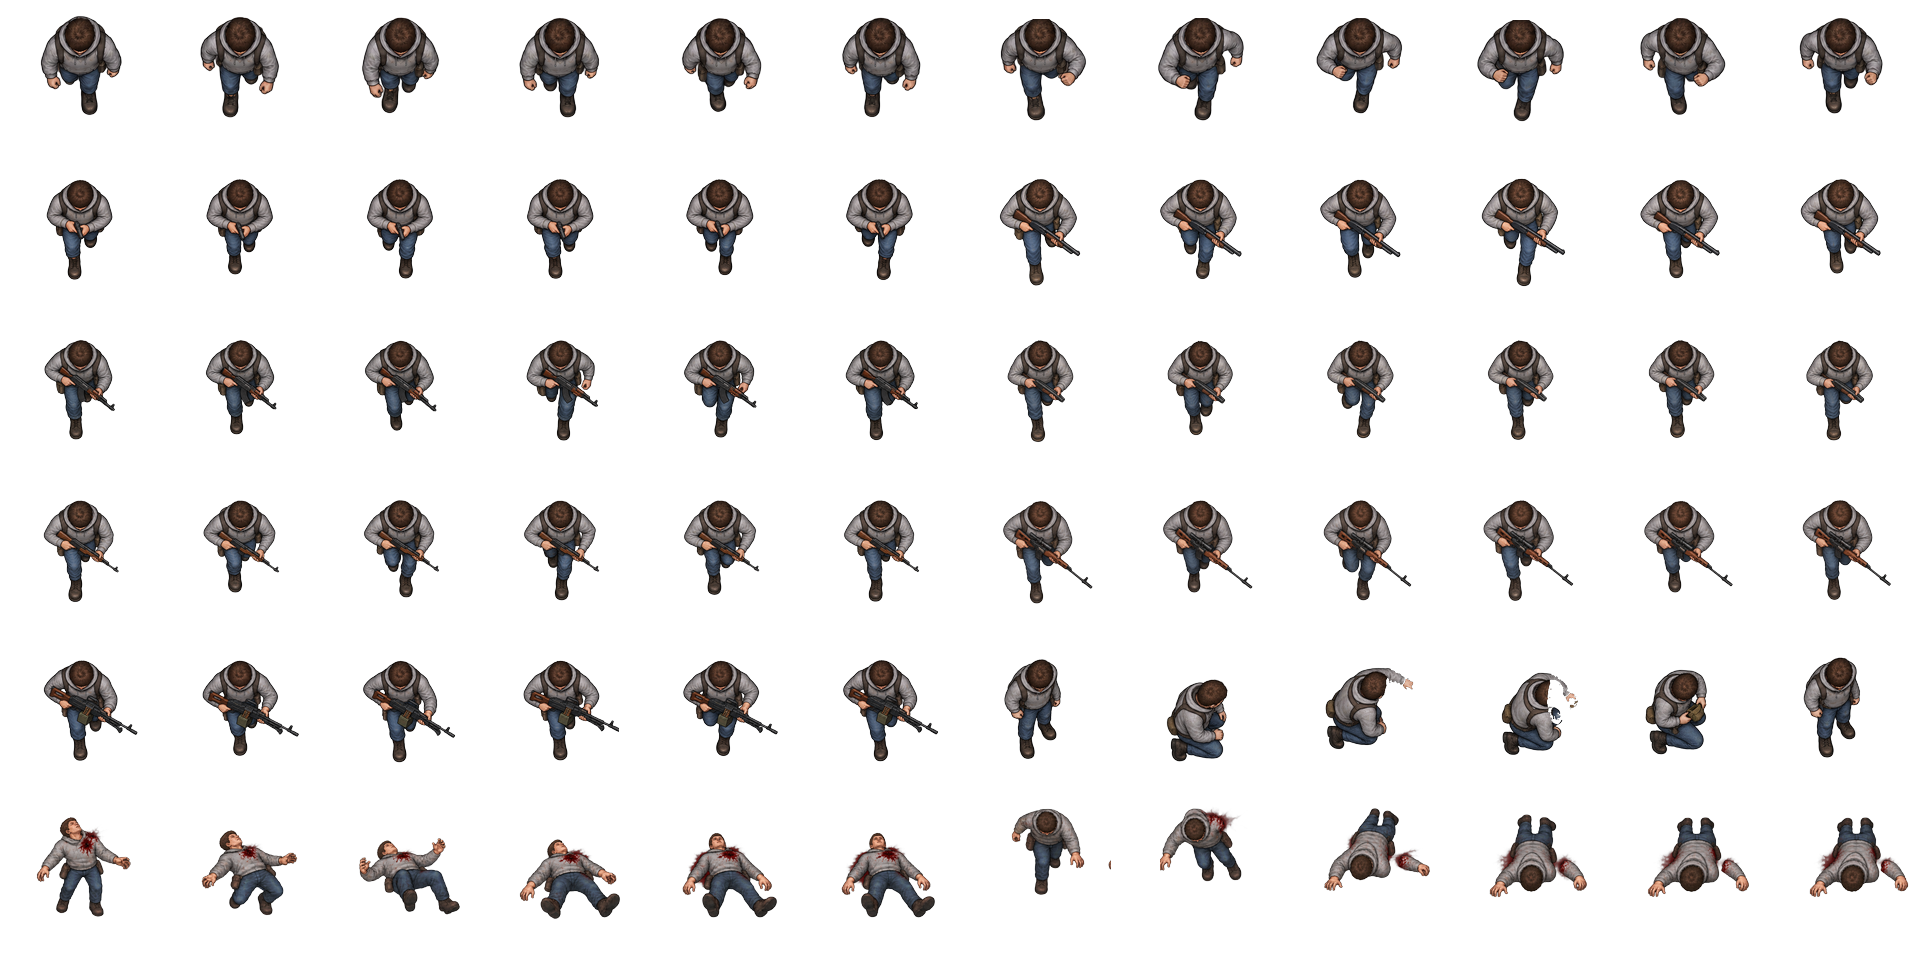
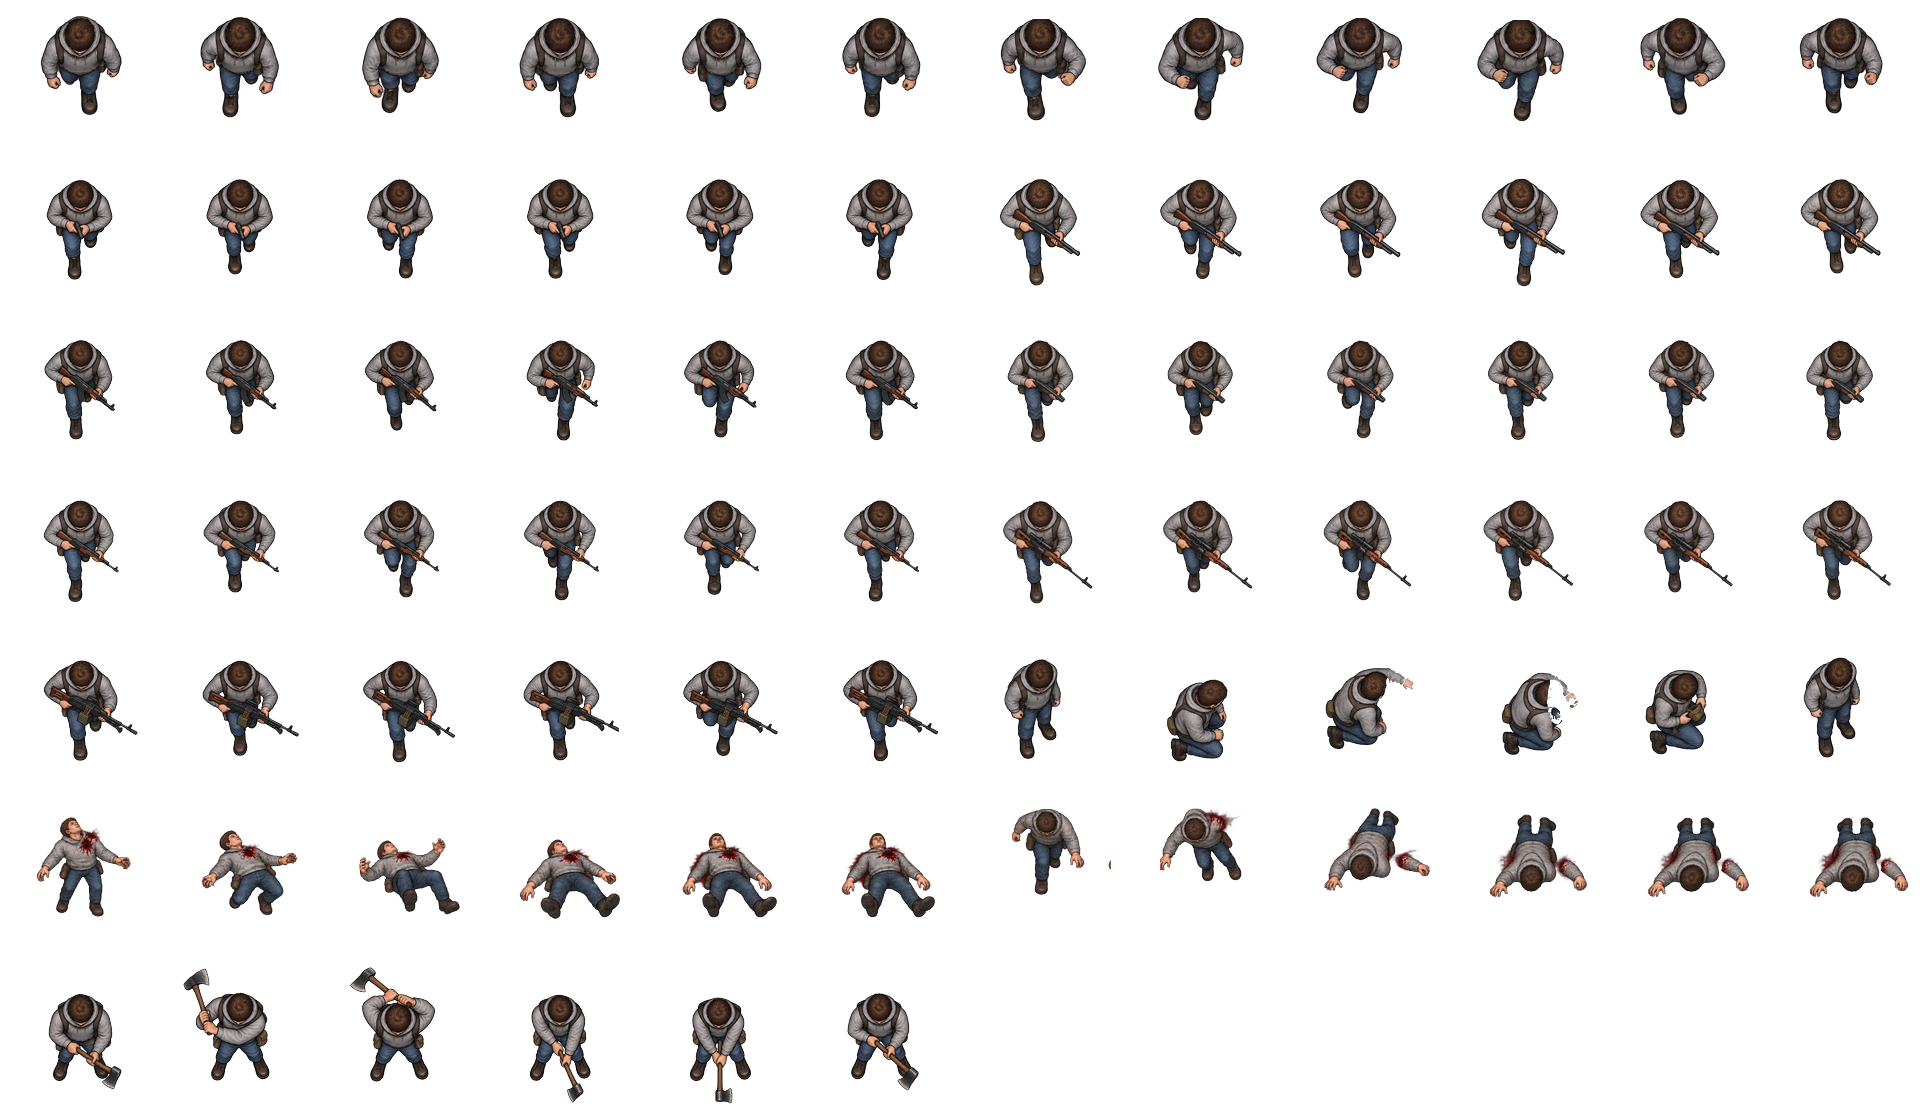
Hero chops wood with the new axe frames
Six drawn frames planted by the boots, timed with a hold at the top of
the swing and at the impact; wood chips fly when the axe bites.

Claude-Session: https://claude.ai/code/session_01Wq2ZfmKgU92G9hoE5Dxxcu

diff --git a/web/sprites.js b/web/sprites.js
@@ -636,12 +636,14 @@ function heldThing(c, kind, x, y, swing) {
 }
 /* ---------- the hero: hand-drawn frames (web/assets/hero.png, cells of 160, 12 per row) ----------
    Walk 0-11 (unarmed), then 6 frames per weapon from 12, kneeling over a body 54-59, falling back 60-65 and
-   forward 66-71. Frames face +y; the anchor (80, 34) is the top of the head, the body centre is 38 lower;
+   forward 66-71, chopping with an axe 72-77 (planted by the boots). Frames face +y; the anchor (80, 34) is the top of the head, the body centre is 38 lower;
    the hero stands 100 cell pixels tall. The grey hoodie takes the player's colour. */
 const HERO = new Image(); let heroReady = false, heroMask = null;
 HERO.onload = () => { heroReady = true; }; HERO.src = 'assets/hero.png';
 const HC = 160, HCOLS = 12, HAX = 80, HAY = 72;
-const HSET = { walk: [0, 12], loot: [54, 6], die_back: [60, 6], die_front: [66, 6] };
+const HSET = { walk: [0, 12], loot: [54, 6], die_back: [60, 6], die_front: [66, 6], chop: [72, 6] };
+// Chop: ready, over the shoulder, overhead (held), down, impact (held), back; seconds per frame.
+const CHOP_TIME = [.1, .12, .16, .08, .22, .14];
 for (let w = 0; w < 7; w++) HSET['w' + w] = [12 + w * 6, 6];
 // Per weapon: muzzle (cell pixels from the body centre) and how far the barrel points off the facing line.
 const HGUN = [[2, 5, 0], [39, 19, 1.04], [34, 14, .91], [28, 5, 1.1], [38, 18, .99], [51, 34, .99], [57, 20, 1.07]];
@@ -667,7 +669,7 @@ function heroFrame(c, n, tint) {
   hsc.globalCompositeOperation = 'source-over';
   const a = c.globalAlpha; c.globalAlpha = a * .82; c.drawImage(hscratch, -HAX, -HAY); c.globalAlpha = a;
 }
-const HERO_RIG_ACTS = { chop: 1, mine: 1, eat: 1, drink: 1, bandage: 1 };
+const HERO_RIG_ACTS = { mine: 1, eat: 1, drink: 1, bandage: 1 };
 // Returns false when the frames cannot show this pose (the cut-out rig draws it instead).
 function drawHero(c, o) {
   const act = o.act, at = act ? act.t : 99, live = act && at < (act.kind === 'reload' ? o.reloadTime || 1.5 : act.kind === 'swap' ? .5 : .9);
@@ -685,6 +687,9 @@ function drawHero(c, o) {
     // Down on one knee: reach out, then into the bag (hammering keeps reaching).
     const seq = act.kind === 'hammer' ? [1, 2, 1, 2, 1, 2] : [1, 2, 2, 4, 4, 1];
     n = HSET.loot[0] + seq[Math.min(5, Math.floor(at / .15) % 6)];
+  } else if (live && act.kind === 'chop') {
+    let f = 0, left = at; while (f < 5 && left >= CHOP_TIME[f]) left -= CHOP_TIME[f++];
+    n = HSET.chop[0] + f;
   } else if (live && act.kind === 'reload') {
     const p = Math.min(1, at / (o.reloadTime || 1.5)); dip = Math.sin(p * Math.PI); turn = -dip * .35;
   } else if (live && act.kind === 'swap') {

diff --git a/web/render.js b/web/render.js
@@ -522,6 +522,11 @@ function drawPlayer(c, p, r, v) {
   // Standing next to an own construction site, the hero keeps hammering.
   if ((!act || act.t > 1) && !p.moving && p.hp > 0 && r.buildNear) act = { kind: 'hammer', t: now % .9 };
   ejectShell(r, ang, p.gear ? p.gear.weapon : 0);
+  // The axe bites in: chips fly from in front of the feet.
+  if (act && act.kind === 'chop' && act.t > .46 && act.t < .9 && r.chipAt !== r.actAt) {
+    r.chipAt = r.actAt; const fx = r.x + Math.cos(ang) * 17, fy = r.y + Math.sin(ang) * 17;
+    for (let i = 0; i < 7; i++) { const a = ang + (Math.random() - .5) * 3.6, sp = 40 + Math.random() * 70; puff('debris', fx, fy, Math.cos(a) * sp, Math.sin(a) * sp, .5 + Math.random() * .3, 1.5 + Math.random() * 1.5, i % 3 ? '#c9a46a' : '#7a5a36'); }
+  }
   // Stepping out of the car fades in; climbing in fades out (drawn by the caller while gliding to the car).
   const fade = r.carAt ? Math.min(1, (now - r.carAt) / .3) : 1;
   const w = p.gear ? p.gear.weapon : 0;

diff --git a/README.md b/README.md
@@ -74,7 +74,7 @@
 - **Карта:** Сибирь, Западная Сибирь и Прибайкалье под снегом, заснеженная тайга; по всей стране воронки, гарь, ржавые бочки и брошенная техника.
 - **Ресурсов меньше:** скромный стартовый запас, точки сбора восстанавливаются 4 минуты, предприятия и тайники дают вдвое меньше, цены выше.
 - **Обмен между игроками** (O рядом с игроком): монеты, вещи и ресурсы, сделка проходит только при согласии второй стороны. **Кланы** до 6 человек (основать — 30 монет): соклановцы не стреляют друг в друга, не захватывают поселения друг друга, их охрана вас не трогает.
-- Главный герой анимирован покадрово по присланным листам: ходьба без оружия (12 кадров), ходьба с каждым из семи стволов — ПМ, помповое ружьё, АК, обрез, СКС, СВД, ПКМ (по 6 кадров), обыск тела и дома на колене, падение на спину или лицом вниз. При прицеливании корпус доворачивается, чтобы ствол смотрел на цель; вспышка — у дульного среза. Толстовка окрашивается в цвет игрока — его выбирают при входе. Остальные люди (мародёры, бандиты, жители) сохраняют свои облики.
+- Главный герой анимирован покадрово по присланным листам: ходьба без оружия (12 кадров), ходьба с каждым из семи стволов — ПМ, помповое ружьё, АК, обрез, СКС, СВД, ПКМ (по 6 кадров), обыск тела и дома на колене, рубка топором, падение на спину или лицом вниз. При прицеливании корпус доворачивается, чтобы ствол смотрел на цель; вспышка — у дульного среза. Толстовка окрашивается в цвет игрока — его выбирают при входе. Остальные люди (мародёры, бандиты, жители) сохраняют свои облики.
 
 
 **Мир.** Биомы по регионам: смешанный лес и поля Центральной России, степь Поволжья, леса и скалы Урала, тайга Сибири, тундра Севера. Реки (Волга, Кама, Иртыш, Обь, Енисей, Ангара, Лена, Амур и другие) и озёра (Ладожское, Байкал): машины проезжают только по мостам, пешком реку можно перейти вброд медленно. Брошенные машины, линии электропередачи, поля, заброшенные заводы, заправки, воинские части, нефтебазы, рудники, станции и деревни.

diff --git a/CHANGELOG.md b/CHANGELOG.md
@@ -2,7 +2,7 @@
 
 ## 0.5.0
 
-- Главный герой — покадровые анимации по новым листам: ходьба без оружия и с каждым из семи стволов, обыск на колене (тела, дома, ящика, стройка), смерть с падением на спину или вперёд; тело на земле — последний кадр падения. Корпус при прицеливании доворачивается к цели, толстовка в цвете игрока. Облик по уровням у героя убран.
+- Главный герой — покадровые анимации по новым листам: ходьба без оружия и с каждым из семи стволов, обыск на колене (тела, дома, ящика, стройка), рубка топором со щепками в момент удара, смерть с падением на спину или вперёд; тело на земле — последний кадр падения. Корпус при прицеливании доворачивается к цели, толстовка в цвете игрока. Облик по уровням у героя убран.
 - Убежища убраны. Лагерь строят сами: на ровной площадке (частокол из восьми секций и ворота) или в пустом доме (стены уже есть, нужна дверь). Костёр, спальник (возрождение), ящик, верстак, сборник воды. Лагерь общий с кланом; чужие ломают стены пулями или вручную и обчищают ящик.
 - Крафт из материалов в рюкзаке (доски, гвозди, металлолом, ткань, верёвка, порох, травы, шкуры, изолента): в руках, у огня и на верстаке. Материалы и еда складываются стопками.
 - Патроны стали вещью: у каждого оружия свой калибр, магазин заряжается из рюкзака.
